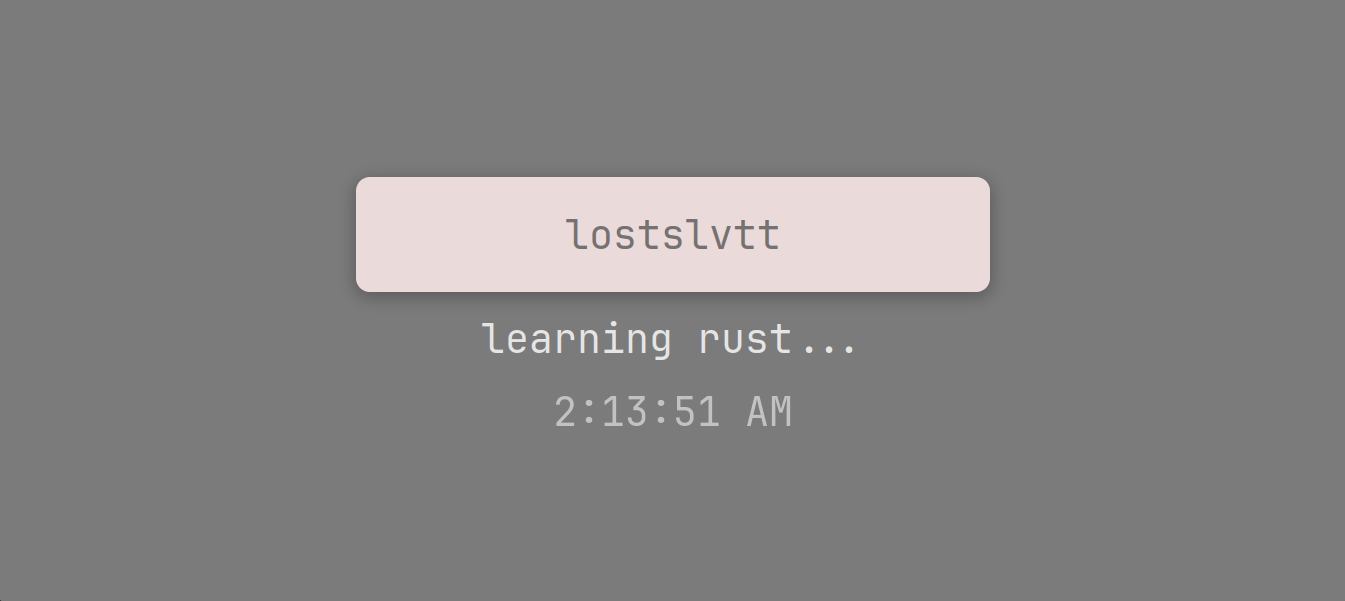
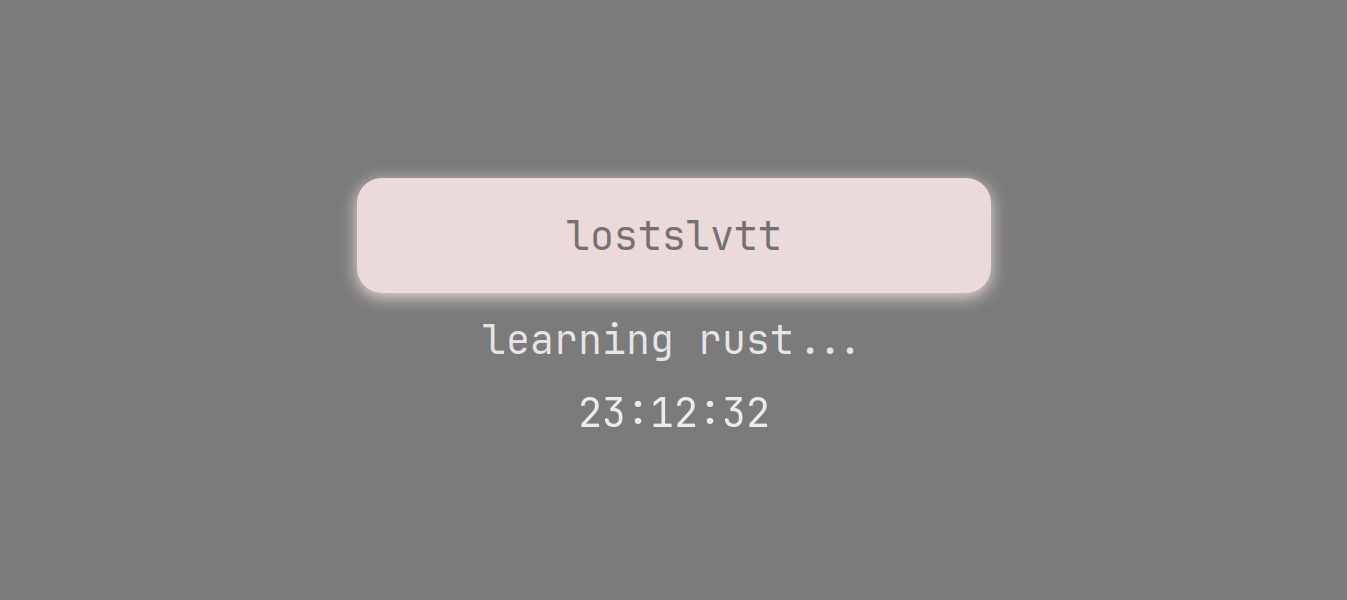
update !!!

diff --git a/index.php b/index.php
@@ -27,7 +27,7 @@
             text-decoration: none;
         }
 	.Rectangle1:hover {
-	    box-shadow: 0px 4px 30.199999809265137px 2px rgba(0, 0, 0, 0.25);
+	    box-shadow: 0px 0px 30.199999809265137px 0px rgba(235, 218, 218, 1);
 	}
         body {
             background-color: #7B7B7B; 
@@ -55,10 +55,10 @@
             width: 634px;
             height: 115px;
             background: #EBDADA;
-            box-shadow: 0px 4px 15.199999809265137px 2px rgba(0, 0, 0, 0.25);
-            border-radius: 14px;
+            box-shadow: 0px 4px 15.199999809265137px 0px rgba(235, 218, 218, 1);
+            border-radius: 25px;
             animation: fade-in 1s ease-in-out;
-            transition: box-shadow 0.2s ease-in-out;
+            transition: box-shadow 0.4s ease-in-out;
         }
         .Lostslvtt:hover {
             opacity: 100%;
@@ -94,6 +94,7 @@
 
         .LocalTime {
             color: white;
+            animation: fade-in 1s ease-in-out;
             font-size: 40px;
             font-family: JetBrains Mono;
             font-weight: 400;
@@ -112,11 +113,23 @@
     <script>
         function updateTime() {
             var localTime = document.querySelector('.LocalTime');
-            localTime.textContent = new Date().toLocaleTimeString();
+            var currentTime = new Date();
+            var hours = currentTime.getHours();
+            var minutes = currentTime.getMinutes();
+            var seconds = currentTime.getSeconds();
+            var timeString = hours.toString().padStart(2, '0') + ':' + minutes.toString().padStart(2, '0') + ':' + seconds.toString().padStart(2, '0');
+            localTime.textContent = timeString;
+            localTime.style.opacity = '40%';
+        }
+
+        function openLink() {
+            window.location.href = "https://github.com/lostsdev";
         }
 
         window.onload = function() {
+            var localTime = document.querySelector('.LocalTime');
             setInterval(updateTime, 1000);
+            localTime.style.opacity = '100%';
         };
     </script>
 </head>
@@ -124,9 +137,9 @@
     <div class="Desktop1">
         <a href="https://github.com/lostslvtt">
             <div class="Container">
-                <div class="Rectangle1">
+                <div class="Rectangle1" onclick="openLink()">
                     <div class="Lostslvtt">
-                        <a href="https://github.com/lostslvtt">lostslvtt</a>
+                        <a href="https://github.com/lostsdev">lostslvtt</a>
                     </div>
                 </div>
                 <div class="NotEndedYet">
